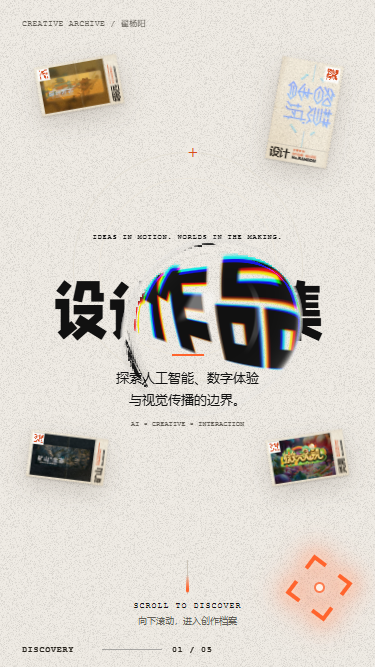
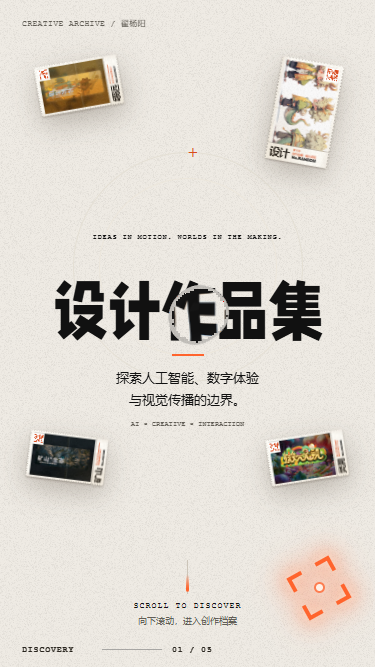
颗粒优化-票根-B-联系-经历标签
颗粒减淡并更换分布，减少条纹、发虚感。
小票 hover 只框住可撕票根。
调整标题填充边缘，处理 B 字白边。
联系区背景、卡片、图标及操作按钮统一为渐变玻璃风格，文案改为「联系我」。
每条经历标签补齐至 3–6 个。

diff --git a/New/data/journey.ts b/New/data/journey.ts
@@ -6,10 +6,10 @@ export interface TimelineEntry {
 const practiceEntries:TimelineEntry[] = [
   {id:'education',year:'2021',date:'2021.09 — 2025.06',kind:'教育',title:'数字媒体艺术',organization:'内蒙古师范大学',description:'数字媒体艺术专业，已毕业。学习数字动态影像、信息交互、影视特效与后期制作，课程涵盖用户体验、人工智能与创新设计、界面设计及品牌与新媒体。',tags:['数字媒体艺术','用户体验','影像创作','普通全日制本科','双一流专业'],source:'用户提供简历：教育背景',confirmed:true},
   {id:'mine',year:'2023',date:'2023.08',kind:'项目',title:'矿山*生态',organization:'创作实践',description:'基于 Depth AI 场景建模的 UE5 实机演示。',tags:['Depth AI','UE5','场景建模'],source:'用户提供作品说明及 No.202308',confirmed:true,workId:'mine-eco'},
-  {id:'arti',year:'2024',date:'2024.03',kind:'项目',title:'ARTI 人工智能艺术教育教程',organization:'中国人工智能艺术教育协同创新平台',description:'ARTI 平台讲解及人工智能教育联盟公众号教程制作。内容涵盖基础图像生成、产品与交互设计、平面与视觉设计、装置与公共艺术的图像生成教程。',tags:['AI 教程','生成式视觉'],source:'用户提供简历：项目经历，2024.03',confirmed:true},
+  {id:'arti',year:'2024',date:'2024.03',kind:'项目',title:'ARTI 人工智能艺术教育教程',organization:'中国人工智能艺术教育协同创新平台',description:'ARTI 平台讲解及人工智能教育联盟公众号教程制作。内容涵盖基础图像生成、产品与交互设计、平面与视觉设计、装置与公共艺术的图像生成教程。',tags:['AI 教程','生成式视觉','艺术教育','内容制作'],source:'用户提供简历：项目经历，2024.03',confirmed:true},
   {id:'lingsu',year:'2024',date:'2024.06',kind:'项目',title:'微元灵溯',organization:'创作实践',description:'基于“隐性饥饿”的 AI 艺术可视化交互设计。',tags:['AI 艺术','可视化','交互设计'],source:'用户提供作品说明及 No.202406',confirmed:true,workId:'weiyuan'},
   {id:'internship',year:'2024',date:'2024.08 — 2024.10',kind:'实习',title:'AIGC 设计师',organization:'上海脸谱心智',description:'参与 AI 动画、宣发物料与模拟器设计，优化 ComfyUI 工作流并使用 PyQt 开发界面。',tags:['ComfyUI','AI 动画','视觉物料','PyQt'],source:'用户提供简历：工作经历',confirmed:true},
-  {id:'earthquake',year:'2024',date:'2024.11 — 2024.12',kind:'项目',title:'小马博士讲故事',organization:'内蒙古自治区地震局',description:'“炫动文创联‘萌’守护地震安全”（第二季）——小马博士讲故事活动断层成果应用。制作系列视频，传播活动断层探测成果的应用及减轻地震灾害损失的知识。',tags:['地震科普','系列视频'],source:'用户提供简历：项目经历',confirmed:true},
+  {id:'earthquake',year:'2024',date:'2024.11 — 2024.12',kind:'项目',title:'小马博士讲故事',organization:'内蒙古自治区地震局',description:'“炫动文创联‘萌’守护地震安全”（第二季）——小马博士讲故事活动断层成果应用。制作系列视频，传播活动断层探测成果的应用及减轻地震灾害损失的知识。',tags:['地震科普','系列视频','防灾减灾','知识传播'],source:'用户提供简历：项目经历',confirmed:true},
   {id:'suiyuan',year:'2025',date:'2025.01 — 2025.07',kind:'项目',title:'绥远方志',organization:'“创意内蒙古”设计赋能呼和浩特',description:'以呼和浩特不同时期的史志为内容，设计沉浸式交互系统。使用 AIGC 制作图像、音频、视频、模型、代码与文本，并通过 Unity 整合；结合强化学习智能体、3D 打印与 Pico Neo3 VR 构建体验。',tags:['AIGC','Unity','智能体','VR'],source:'用户提供简历项目经历；完成月份另由用户确认为 2025.07',confirmed:true,workId:'suiyuan'},
 ];
 // No invented dates or individual/team attribution.
@@ -17,5 +17,5 @@ export const journeyAwards = [
   {date:'2022.09',title:'第八届中国国际“互联网+”大学生创新创业大赛',result:'“互联网+”省银',project:'非遗颂"铸牢"'},
   {date:'2024.06',title:'第一届亚洲大学生创意设计展',result:'“亚创大赛”一等奖',project:'元宇宙空间设计：生成式人工智能打造全新数字化虚拟沉浸式体验空间'},
 ];
-export const journeyEntries:TimelineEntry[] = [...practiceEntries,...journeyAwards.map((award,index)=>({id:`award-${index}`,year:award.date.slice(0,4),date:award.date,kind:'获奖',title:award.result,organization:award.title,description:award.project,tags:['荣誉'],source:'用户确认日期与简历',confirmed:true}))].sort((a,b)=>a.date.localeCompare(b.date));
+export const journeyEntries:TimelineEntry[] = [...practiceEntries,...journeyAwards.map((award,index)=>({id:`award-${index}`,year:award.date.slice(0,4),date:award.date,kind:'获奖',title:award.result,organization:award.title,description:award.project,tags:index===0?['省级银奖','非遗文化','创新创业']:['一等奖','元宇宙','生成式 AI','沉浸体验'],source:'用户确认日期与简历',confirmed:true}))].sort((a,b)=>a.date.localeCompare(b.date));
 export const journeyYears = [...new Set(journeyEntries.map(entry=>entry.year))];

diff --git a/New/css/sections.css b/New/css/sections.css
@@ -112,3 +112,34 @@
 .device-demo-close{margin-top:14px;border:0;border-bottom:1px solid #aaa69c;background:none;min-height:44px;font-size:12px}
 @media(max-width:1023px){.device-demos{grid-template-columns:1fr}.device-demo{display:grid;grid-template-columns:1fr 1.5fr;gap:24px}.device-demo-cover,.device-demo-player{margin-top:0}}
 @media(max-width:479px){.device-demo{display:block}.device-demo-cover,.device-demo-player{margin-top:20px}}
+/* Contact uses the same translucent, colored glass system as its icons. */
+html body #contact {
+  background-color:#f4f9fc;
+  background-image:radial-gradient(ellipse at 18% 30%,#b9e9ff80,transparent 50%),radial-gradient(ellipse at 85% 65%,#c9c4ff70,transparent 48%),linear-gradient(140deg,#f7fcff,#edf7f6 55%,#fff6ec);
+  background-size:auto;
+}
+html body .contact-methods a, html body .contact-methods button {
+  background-image:linear-gradient(125deg,#ffffffd9,#ffffff65 65%,#d9eeff45);
+  background-color:#ffffff45;
+  border:1px solid #ffffffed;
+  backdrop-filter:blur(12px);
+  box-shadow:inset 0 1px 0 white,0 12px 30px #53799618;
+}
+html body .contact-methods li:nth-child(2) > a { background-image:linear-gradient(125deg,#ffffffed,#fff1dd85); }
+html body .contact-methods li:nth-child(3) > button { background-image:linear-gradient(125deg,#ffffffed,#cdf5e980); }
+html body .contact-methods li:nth-child(4) > a { background-image:linear-gradient(125deg,#ffffffed,#e0dcff85); }
+.contact-methods svg:not(.contact-artwork) {
+  background:linear-gradient(135deg,#ffffffc9,#8dcaff80);
+  color:#235e8d;border:1px solid #ffffffdd;
+  box-shadow:0 5px 12px #459dff25,inset 0 1px 0 white;
+}
+.contact-methods li:nth-child(2) svg:not(.contact-artwork) { background:linear-gradient(135deg,#fff9ed,#ffbb7866);color:#9b501d; }
+.contact-methods li:nth-child(3) svg:not(.contact-artwork) { background:linear-gradient(135deg,#f3fffc,#60efce80);color:#186d58; }
+.contact-methods li:nth-child(4) svg:not(.contact-artwork) { background:linear-gradient(135deg,#faf9ff,#a8a4ff80);color:#514a99; }
+html body #contact .contact-methods :is(a,button) {
+  background-image:linear-gradient(125deg,#ffffffd9,#ffffff65 65%,#d9eeff45);
+  background-size:100% 100%;background-repeat:no-repeat;
+}
+html body #contact .contact-methods li:nth-child(2) > a { background-image:linear-gradient(125deg,#ffffffed,#fff1dd85); }
+html body #contact .contact-methods li:nth-child(3) > button { background-image:linear-gradient(125deg,#ffffffed,#cdf5e980); }
+html body #contact .contact-methods li:nth-child(4) > a { background-image:linear-gradient(125deg,#ffffffed,#e0dcff85); }

diff --git a/New/js/components/InteractiveCursor.tsx b/New/js/components/InteractiveCursor.tsx
@@ -9,11 +9,11 @@ export function InteractiveCursor(){
    raf=0;el.toggleAttribute('data-visible',visible);if(!visible)return;
    el.style.left=`${x}px`;el.style.top=`${y}px`;
    const hit=document.elementFromPoint(x,y);
-   const ticket=hit?.closest('.artwork-ticket');
+   const ticket=hit?.closest('.tear-ticket__stub[role="button"]');
    const target=ticket||hit?.closest('a[href],button:not(:disabled),[role="button"]');
    const scoped=target?.querySelector('[data-cursor-bound]')||target;
    el.toggleAttribute('data-active',!!scoped);
-   const markers=ticket?.querySelectorAll('[data-cursor-corner]');
+   const markers=ticket?.closest('.tear-ticket__piece--stub')?.querySelectorAll('[data-stub-corner]');
    const rect=scoped?.getBoundingClientRect();
    const points=markers?.length===4?Array.from(markers).map(m=>{const r=m.getBoundingClientRect();return {x:r.x,y:r.y};}):rect?[{x:rect.left,y:rect.top},{x:rect.right,y:rect.top},{x:rect.right,y:rect.bottom},{x:rect.left,y:rect.bottom}]:[{x:x-24,y:y-24},{x:x+24,y:y-24},{x:x+24,y:y+24},{x:x-24,y:y+24}];
    el.querySelectorAll<HTMLElement>('.cursor-corner').forEach((corner,i)=>{

diff --git a/New/js/tests/background-grain.spec.ts b/New/js/tests/background-grain.spec.ts
@@ -7,10 +7,10 @@ for (const width of [375, 1440]) {
     await page.goto('/Portfolio-YoungSliker/New/#contact');
     const contact = page.locator('#contact');
     await contact.scrollIntoViewIfNeeded();
-    for (const selector of ['.hero-landing', '#about', '.about-portal', '.flowing-menu', '.site-header', '#journey', '#works', '#contact', '.contact-methods a']) {
+    for (const selector of ['.hero-landing', '#about', '.about-portal', '.flowing-menu', '.site-header', '#journey', '#works']) {
       await expect(page.locator(selector).first()).toHaveCSS('background-image', /background-grain.*png/);
     }
-    const loaded = await contact.evaluate(async element => {
+    const loaded = await page.locator('#about').evaluate(async element => {
       const url = getComputedStyle(element).backgroundImage.slice(5, -2);
       const image = new Image();
       image.src = url;

diff --git a/New/js/components/Contact.tsx b/New/js/components/Contact.tsx
@@ -45,7 +45,7 @@ export function Contact() {
     <p className="eyebrow">05 / WHAT'S NEXT</p><ContactTitle />
     <div className="contact-row">
       <div className="contact-details">
-        <p>有想法，欢迎聊聊。</p>
+        <p>联系我</p>
         <ul className="contact-methods" aria-label="联系方式">
           <li><a href="mailto:zyg203320@163.com" aria-label="发送邮件至 zyg203320@163.com"><ContactArtwork kind="mail" /><span className="contact-method-label">MAIL</span><span className="contact-method-value">zyg203320@163.com</span><ContactIcon /></a></li>
           <li><a href="tel:+8615248120655" aria-label="拨打电话 15248120655"><ContactArtwork kind="phone" /><span className="contact-method-label">TEL</span><span className="contact-method-value">15248120655</span><ContactIcon /></a></li>

diff --git a/New/js/components/TearTicket.jsx b/New/js/components/TearTicket.jsx
@@ -601,6 +601,7 @@ export default function TearTicket({
                 <path d={geo.stubOutline} />
               </svg>
             ) : null}
+            {(vertical ? [[0,height-stubSize],[width,height-stubSize],[width,height],[0,height]] : [[width-stubSize,0],[width,0],[width,height],[width-stubSize,height]]).map(([x,y],i)=><span key={i} data-stub-corner="" style={{position:'absolute',left:x,top:y,width:0,height:0,pointerEvents:'none'}}/>)}
             <div className="tear-ticket__paper tear-ticket__paper--stub" style={{ clipPath: `path('${geo.stub}')` }}>
               <div className="tear-ticket__stub" role="button"
                 tabIndex={disabled || used ? -1 : 0} aria-label={ariaLabel}

diff --git a/New/js/components/StrokeText.jsx b/New/js/components/StrokeText.jsx
@@ -410,7 +410,9 @@ const StrokeText = ({
             x="0"
             y="0"
             fill={fillColor}
-            stroke="none"
+            stroke={fillColor}
+            strokeWidth={.35}
+            paintOrder="stroke fill"
             style={fontStyle}
             clipPath={fillMode === 'wipe' && wipeStart ? `url(#${wipeId})` : undefined}
           >

diff --git a/New/python/background-grain.py b/New/python/background-grain.py
@@ -4,6 +4,8 @@ Only the grain pass is needed: no gradient, WebGL context or animation loop.
 """
 from pathlib import Path
 from PIL import Image
+from random import Random
+rng = Random(20261026)
 
 
 def fract(value):
@@ -21,8 +23,8 @@ image = Image.new('RGBA', (256, 256))
 pixels = []
 for y in range(256):
     for x in range(256):
-        grain = noise(x + .5, y + .5) + noise(x + 7.63, y + 7.63) - 1
+        grain = rng.random() + rng.random() - 1
         shade = 255 if grain > 0 else 0
-        pixels.append((shade, shade, shade, round(abs(grain) * .11 * 255)))
+        pixels.append((shade, shade, shade, round(abs(grain) * .065 * 255)))
 image.putdata(pixels)
 image.save(Path(__file__).resolve().parents[1] / 'assets' / 'background-grain.png', optimize=True)
